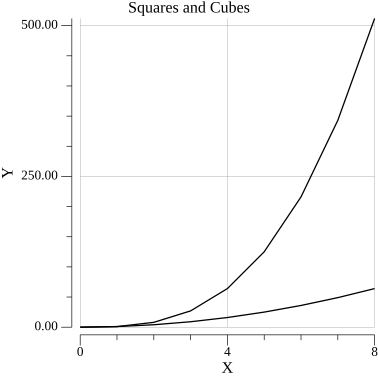
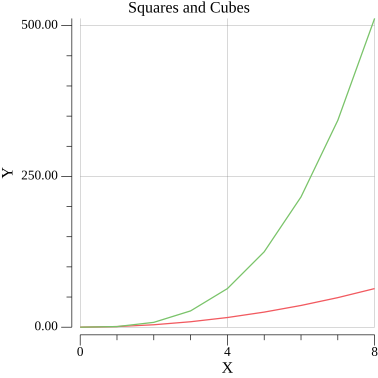
add scatter demo

diff --git a/BookExamples/Math-for-ML/ch01/S0301-scatter/main.go b/BookExamples/Math-for-ML/ch01/S0301-scatter/main.go
@@ -1,0 +1,34 @@
+package main
+
+import (
+	"golang.org/x/image/colornames"
+	"gonum.org/v1/plot"
+	"gonum.org/v1/plot/plotter"
+	"gonum.org/v1/plot/vg"
+)
+
+func main() {
+	// 绘制点
+	points := plotter.XYs{}
+	for i := 0; i < 100; i++ {
+		points = append(points, plotter.XY{X: float64(i), Y: float64(i * i)})
+	}
+
+	// 创建画布
+	p := plot.New()
+	p.Title.Text = "Scatters"
+	p.X.Label.Text = "X"
+	p.Y.Label.Text = "Y"
+
+	// 绘制散列点
+	scatter, err := plotter.NewScatter(points)
+	if err != nil {
+		panic(err)
+	}
+	scatter.GlyphStyle.Radius = vg.Points(0.5)
+	scatter.Color = colornames.Blue
+	p.Add(scatter)
+
+	// 保存图片
+	p.Save(10*vg.Centimeter, 10*vg.Centimeter, "scatters.png")
+}

diff --git a/BookExamples/Math-for-ML/ch01/S0202-multilines/main.go b/BookExamples/Math-for-ML/ch01/S0202-multilines/main.go
@@ -4,6 +4,7 @@ package main
 import (
 	"gonum.org/v1/plot"
 	"gonum.org/v1/plot/plotter"
+	"gonum.org/v1/plot/plotutil"
 	"gonum.org/v1/plot/vg"
 )
 
@@ -28,12 +29,14 @@ func main() {
 	if err != nil {
 		panic(err)
 	}
+	line1.Color = plotutil.Color(0)
 	p.Add(line1)
 
 	line2, err := plotter.NewLine(points2)
 	if err != nil {
 		panic(err)
 	}
+	line2.Color = plotutil.Color(1)
 	p.Add(line2)
 
 	p.Save(10*vg.Centimeter, 10*vg.Centimeter, "squares&cubs.png")
